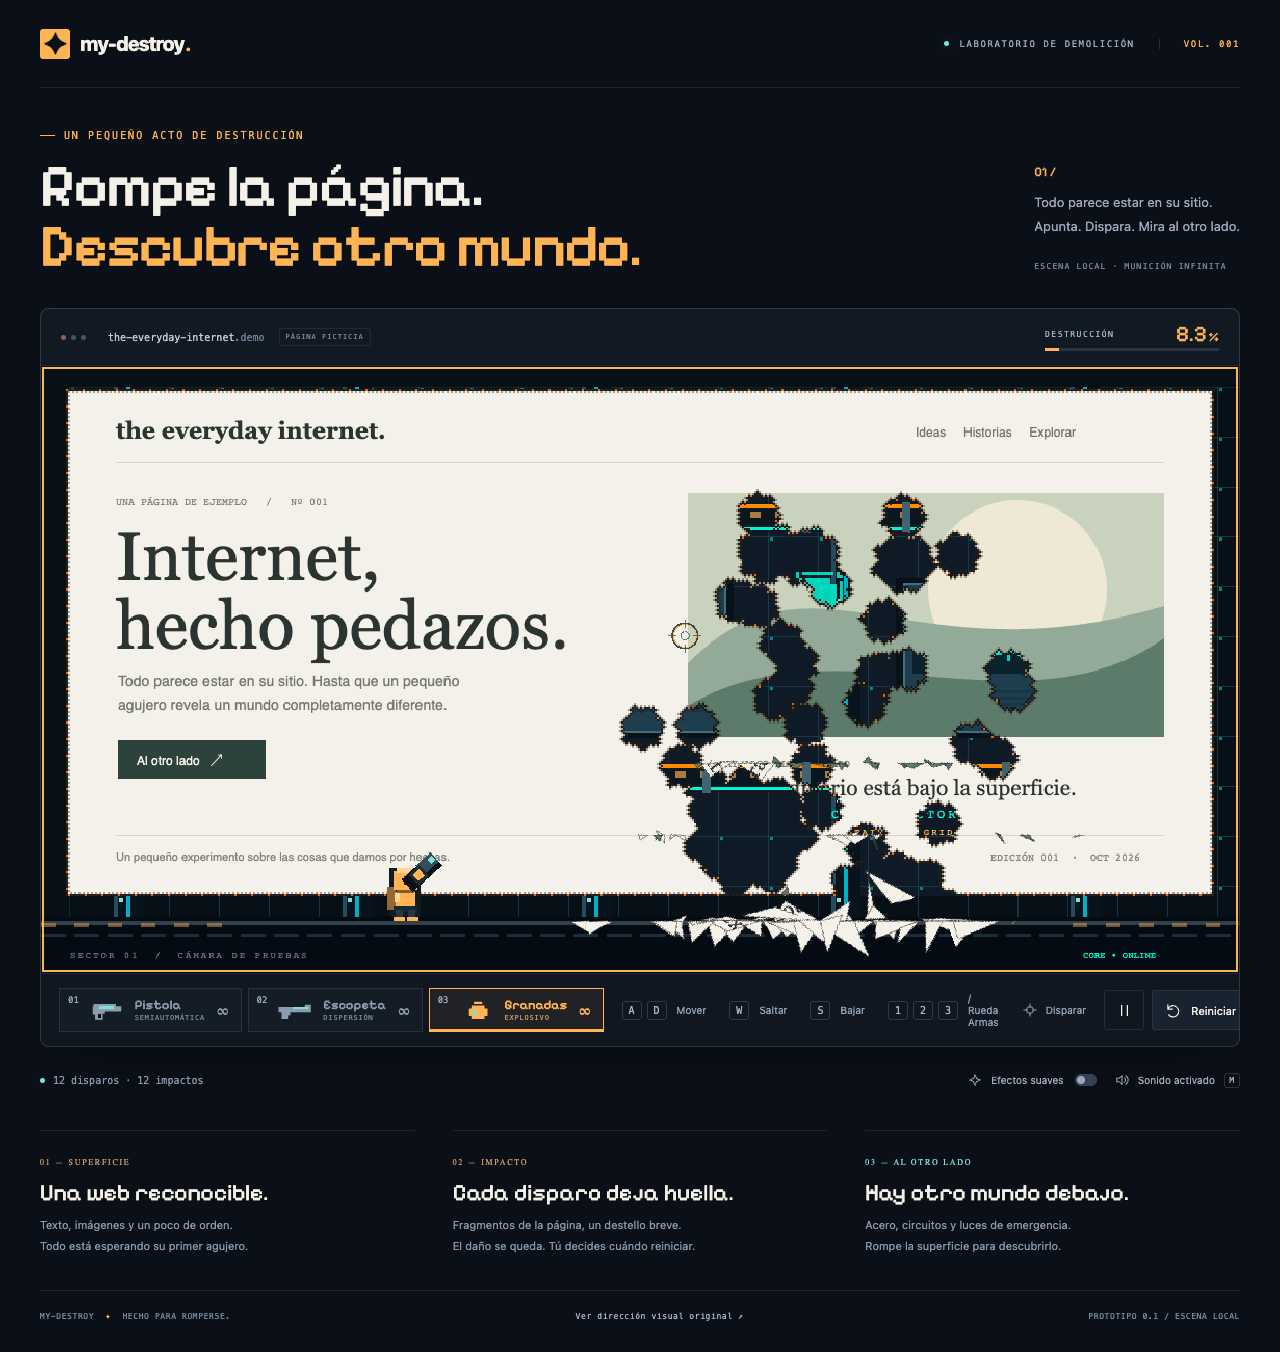
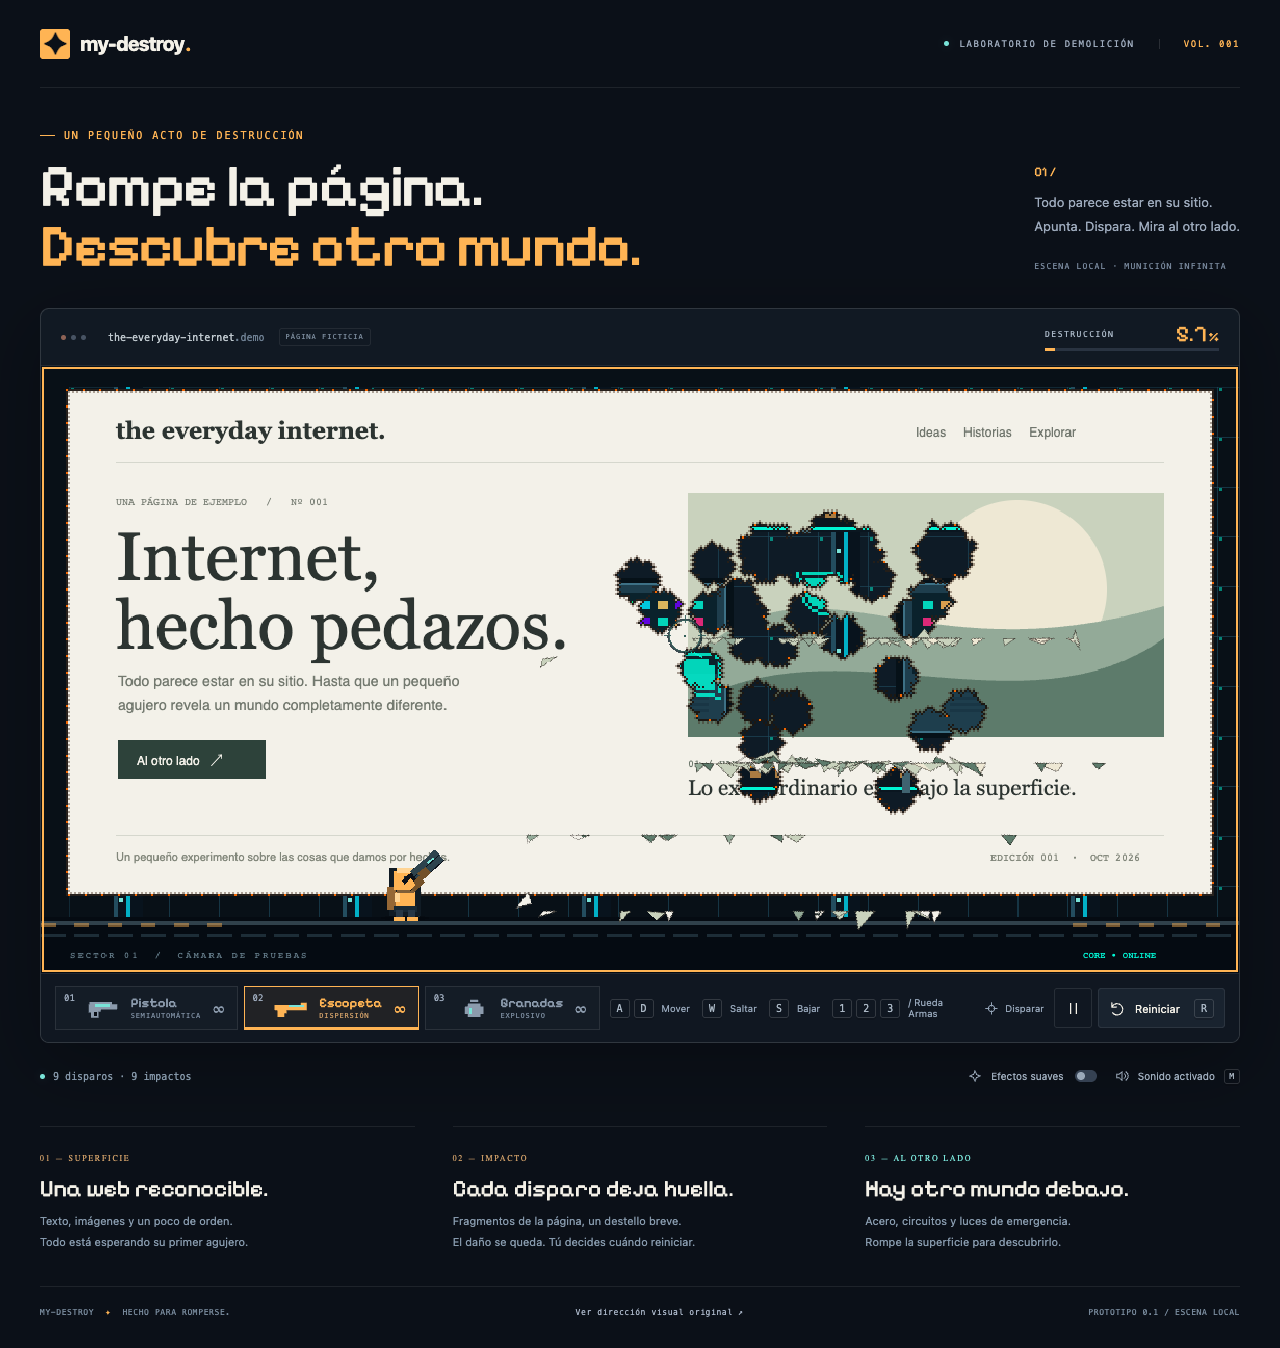
fix(debris): aplicar mascara de recorte en pasarela, filtrar micro-fragmentos y corregir overflow de barra

diff --git a/src/app/styles.css b/src/app/styles.css
@@ -1,6 +1,6 @@
 @font-face{font-family:Pixelify;src:url('/assets/PixelifySans.ttf') format('truetype');font-weight:400 700;font-display:swap}
 :root{font-family:Inter,ui-sans-serif,system-ui,-apple-system,sans-serif;color:#f4f1e8;background:#0b1018;color-scheme:dark;font-synthesis:none;--amber:#ffb454;--muted:#9daabc;--cyan:#79e3d8;--border:#ffffff14}
-*{box-sizing:border-box}body{margin:0}button,a{-webkit-tap-highlight-color:transparent}button{font:inherit}button{cursor:pointer}button:disabled{cursor:wait;opacity:.4}button:focus-visible,a:focus-visible,canvas:focus-visible{outline:2px solid var(--amber);outline-offset:5px}a{color:inherit;text-decoration:none}button svg{width:17px;height:17px;flex-shrink:0}main{max-width:1280px;padding:0 40px;margin:auto}button{display:inline-flex;align-items:center;justify-content:center;gap:9px;color:inherit;border:1px solid var(--border);background:#19232f;min-height:40px;transition:background .15s,border-color .15s}button:hover{background:#23303f;border-color:#ffffff35}kbd{font:10px ui-monospace,monospace;border:1px solid #ffffff25;color:#abb8c5;border-radius:3px;padding:3px 5px;min-width:20px;text-align:center;box-shadow:0 2px #0002}.topbar{height:88px;border-bottom:1px solid var(--border);display:flex;justify-content:space-between;align-items:center}.brand{font-size:20px;font-weight:750;letter-spacing:-.7px;display:flex;align-items:center;gap:10px}.brand-mark{width:30px;height:30px;display:grid;place-items:center;background:var(--amber);color:#0b1018;font:700 30px/1 Pixelify;border-radius:3px}.brand-dot{margin-left:-9px;color:var(--amber)}.edition{display:flex;align-items:center;gap:10px;font:9px ui-monospace,monospace;letter-spacing:1.6px;color:var(--muted)}.edition-number{border-left:1px solid #ffffff20;margin-left:14px;padding-left:24px;color:var(--amber)}.status-dot{display:inline-block;width:5px;height:5px;background:var(--cyan);box-shadow:0 0 8px #79e3d822;border-radius:50%;flex-shrink:0}.intro{display:flex;align-items:flex-end;justify-content:space-between;gap:24px;padding:42px 0 32px}.eyebrow{font:10px ui-monospace,monospace;letter-spacing:2px;color:var(--amber);margin:0 0 15px;display:flex;align-items:center;gap:9px}.eyebrow>span{display:inline-block;width:15px;height:1px;background:var(--amber)}h1{font:500 clamp(40px,4.6vw,62px)/1.02 Pixelify,monospace;letter-spacing:-1.7px;margin:0}h1>span{color:var(--amber)}.intro-aside{padding-bottom:4px;max-width:290px}.aside-number{color:var(--amber);font:13px Pixelify,monospace}.intro-aside p{font-size:13px;line-height:1.8;color:var(--muted);margin:11px 0 16px}.local-note{font:8px ui-monospace,monospace;letter-spacing:1.2px;color:#76869a}.game-shell{border:1px solid #ffffff21;border-radius:9px;overflow:hidden;box-shadow:0 20px 70px #0004;background:#111923}.browser-bar{min-height:57px;padding:10px 20px;display:flex;justify-content:space-between;align-items:center;border-bottom:1px solid #ffffff13;gap:20px}.page-address{display:flex;align-items:center;gap:14px;font:10px ui-monospace,monospace;color:#c0c9cf}.address-suffix{color:#6f8194}.window-dots{display:flex;gap:5px;padding-right:8px}.window-dots i{width:5px;height:5px;background:#475363;border-radius:50%}.window-dots i:first-child{background:#8d6255}.fixture-tag{color:#79899a;border:1px solid #ffffff13;border-radius:3px;font-size:7px;letter-spacing:1px;padding:4px 6px}.damage-readout{display:grid;grid-template-columns:auto 58px;gap:3px 10px;min-width:174px;align-items:center}.damage-readout>span{font:8px ui-monospace,monospace;color:#a8b6c5;letter-spacing:1.5px}.damage-readout strong{font:22px/1 Pixelify,monospace;color:var(--amber);text-align:right;font-variant-numeric:tabular-nums}.damage-readout small{font-size:12px;margin-left:2px}.meter{height:3px;background:#293341;grid-column:1/-1}.meter>span{display:block;height:100%;background:var(--amber);transition:width .12s}.stage{position:relative;aspect-ratio:1152/584;background:#0b1520;isolation:isolate}.game-host{position:absolute;inset:0;overflow:hidden}.game-host canvas{display:block;cursor:none}.game-host canvas:focus-visible{outline-offset:-3px}.first-shot-hint{position:absolute;bottom:14%;right:6%;display:flex;align-items:center;gap:8px;padding:10px 13px;border:1px solid #2e49463b;background:#f3f1e9e8;color:#315149;font:11px ui-monospace,monospace;pointer-events:none}.first-shot-hint svg{width:15px;height:15px}.stage-overlay{position:absolute;inset:0;z-index:2;background:#0b1520f5;display:flex;align-items:center;justify-content:center;flex-direction:column;text-align:center;padding:20px}.paused-overlay{background:#0b1520df;backdrop-filter:blur(3px)}.overlay-symbol{color:var(--amber);font:50px Pixelify;margin-bottom:20px}.stage-overlay h2{font:32px Pixelify;margin:0 0 22px}.stage-overlay p{font-size:12px;color:var(--muted);line-height:1.7}.stage-overlay .eyebrow{font:9px ui-monospace;color:var(--amber);margin:0 0 12px}.primary-button{background:var(--amber);color:#111923;padding:0 25px;font-weight:650;border-color:var(--amber)}.primary-button:hover{background:#ffd194;border-color:#ffd194}.pause-note{margin-top:18px}.restore-toast{position:absolute;bottom:12%;left:50%;transform:translateX(-50%);padding:10px 15px;background:#14292b;color:var(--cyan);border:1px solid #79e3d840;font-size:12px;pointer-events:none;opacity:0;transition:opacity .15s;white-space:nowrap}.restore-toast.visible{opacity:1}.control-deck{display:flex;align-items:center;justify-content:space-between;padding:14px 18px;gap:18px;border-top:1px solid #ffffff12;background:#101721}.arsenal-slots{display:flex;align-items:center;gap:6px}.weapon-slot{display:flex;align-items:center;gap:10px;border:1px solid #ffffff18;background:#141c26;padding:6px 12px 6px 8px;cursor:pointer;transition:border-color .15s,background .15s;color:#8c9bad;min-height:44px}.weapon-slot:hover{border-color:#ffffff35;background:#1a2533;color:#c0cddc}.weapon-slot.is-active{border-color:var(--amber);background:#ffb45412;color:var(--amber);box-shadow:inset 0 -2px var(--amber)}.weapon-slot-key{font:9px ui-monospace,monospace;color:#9daabc;align-self:flex-start}.weapon-slot svg{width:36px;height:24px;shape-rendering:crispEdges;color:currentColor;flex-shrink:0}.weapon-slot>div{display:flex;flex-direction:column;gap:2px;text-align:left}.weapon-slot strong{font:13px/1 Pixelify;font-weight:500;color:currentColor}.weapon-slot small{font:7px ui-monospace,monospace;letter-spacing:.8px;color:#78889b}.weapon-slot.is-active small{color:#c99a65}.weapon-slot .infinite{font:16px Georgia;color:inherit;margin-left:2px}.shortcuts{display:flex;align-items:center;gap:23px;font-size:10px;color:#94a4b7}.shortcuts>span{display:flex;align-items:center;gap:5px}.shortcuts kbd:last-of-type{margin-right:5px}.shortcuts svg{width:16px;height:16px;margin-right:3px}.game-actions{display:flex;gap:8px}.icon-button{width:40px;background:transparent;border-color:#ffffff19;border-radius:3px}.reset-button{padding:0 12px;border-radius:3px;font-size:11px}.reset-button kbd{margin-left:5px}.below-scene{display:flex;align-items:center;justify-content:space-between;gap:20px;padding:14px 0 0}.session-status{font:10px ui-monospace,monospace;color:#8597a9;display:flex;align-items:center;gap:8px}.preferences{display:flex;gap:18px}.preferences button{background:none;border:0;color:#9eacbc;padding:0;min-height:38px;font-size:10px}.preferences button:hover{color:#f4f1e8}.preferences svg{width:14px;height:14px}.preferences kbd{font-size:8px;padding:2px 4px;min-width:16px}.toggle{display:inline-flex;align-items:center;width:22px;height:12px;padding:2px;background:#354152;border-radius:8px;margin-left:2px}.toggle:after{content:'';width:8px;height:8px;background:#9ba9b9;border-radius:50%}.toggle.on{background:#79e3d844}.toggle.on:after{background:var(--cyan);margin-left:auto}.field-notes{display:grid;grid-template-columns:1fr 1fr 1fr;gap:38px;padding:31px 0 34px}.field-notes article{border-top:1px solid var(--border);padding-top:19px}.note-index{font:8px ui-monospace;letter-spacing:1.7px;color:#c99a65}.note-index.cyan{color:#79e3d8}.field-notes h2{font:23px Pixelify;margin:11px 0 9px;font-weight:400}.field-notes p{font-size:11px;color:#8699ac;line-height:1.85;margin:0}footer{display:flex;align-items:center;justify-content:space-between;gap:20px;border-top:1px solid var(--border);padding:21px 0 30px;font:8px ui-monospace,monospace;letter-spacing:.6px;color:#77899b}footer a{color:#aab6c8;text-underline-offset:4px}footer a:hover{text-decoration:underline}.footer-cross{color:var(--amber);margin:0 6px}.mobile-note{display:none}
+*{box-sizing:border-box}body{margin:0}button,a{-webkit-tap-highlight-color:transparent}button{font:inherit}button{cursor:pointer}button:disabled{cursor:wait;opacity:.4}button:focus-visible,a:focus-visible,canvas:focus-visible{outline:2px solid var(--amber);outline-offset:5px}a{color:inherit;text-decoration:none}button svg{width:17px;height:17px;flex-shrink:0}main{max-width:1280px;padding:0 40px;margin:auto}button{display:inline-flex;align-items:center;justify-content:center;gap:9px;color:inherit;border:1px solid var(--border);background:#19232f;min-height:40px;transition:background .15s,border-color .15s}button:hover{background:#23303f;border-color:#ffffff35}kbd{font:10px ui-monospace,monospace;border:1px solid #ffffff25;color:#abb8c5;border-radius:3px;padding:3px 5px;min-width:20px;text-align:center;box-shadow:0 2px #0002}.topbar{height:88px;border-bottom:1px solid var(--border);display:flex;justify-content:space-between;align-items:center}.brand{font-size:20px;font-weight:750;letter-spacing:-.7px;display:flex;align-items:center;gap:10px}.brand-mark{width:30px;height:30px;display:grid;place-items:center;background:var(--amber);color:#0b1018;font:700 30px/1 Pixelify;border-radius:3px}.brand-dot{margin-left:-9px;color:var(--amber)}.edition{display:flex;align-items:center;gap:10px;font:9px ui-monospace,monospace;letter-spacing:1.6px;color:var(--muted)}.edition-number{border-left:1px solid #ffffff20;margin-left:14px;padding-left:24px;color:var(--amber)}.status-dot{display:inline-block;width:5px;height:5px;background:var(--cyan);box-shadow:0 0 8px #79e3d822;border-radius:50%;flex-shrink:0}.intro{display:flex;align-items:flex-end;justify-content:space-between;gap:24px;padding:42px 0 32px}.eyebrow{font:10px ui-monospace,monospace;letter-spacing:2px;color:var(--amber);margin:0 0 15px;display:flex;align-items:center;gap:9px}.eyebrow>span{display:inline-block;width:15px;height:1px;background:var(--amber)}h1{font:500 clamp(40px,4.6vw,62px)/1.02 Pixelify,monospace;letter-spacing:-1.7px;margin:0}h1>span{color:var(--amber)}.intro-aside{padding-bottom:4px;max-width:290px}.aside-number{color:var(--amber);font:13px Pixelify,monospace}.intro-aside p{font-size:13px;line-height:1.8;color:var(--muted);margin:11px 0 16px}.local-note{font:8px ui-monospace,monospace;letter-spacing:1.2px;color:#76869a}.game-shell{border:1px solid #ffffff21;border-radius:9px;overflow:hidden;box-shadow:0 20px 70px #0004;background:#111923}.browser-bar{min-height:57px;padding:10px 20px;display:flex;justify-content:space-between;align-items:center;border-bottom:1px solid #ffffff13;gap:20px}.page-address{display:flex;align-items:center;gap:14px;font:10px ui-monospace,monospace;color:#c0c9cf}.address-suffix{color:#6f8194}.window-dots{display:flex;gap:5px;padding-right:8px}.window-dots i{width:5px;height:5px;background:#475363;border-radius:50%}.window-dots i:first-child{background:#8d6255}.fixture-tag{color:#79899a;border:1px solid #ffffff13;border-radius:3px;font-size:7px;letter-spacing:1px;padding:4px 6px}.damage-readout{display:grid;grid-template-columns:auto 58px;gap:3px 10px;min-width:174px;align-items:center}.damage-readout>span{font:8px ui-monospace,monospace;color:#a8b6c5;letter-spacing:1.5px}.damage-readout strong{font:22px/1 Pixelify,monospace;color:var(--amber);text-align:right;font-variant-numeric:tabular-nums}.damage-readout small{font-size:12px;margin-left:2px}.meter{height:3px;background:#293341;grid-column:1/-1}.meter>span{display:block;height:100%;background:var(--amber);transition:width .12s}.stage{position:relative;aspect-ratio:1152/584;background:#0b1520;isolation:isolate}.game-host{position:absolute;inset:0;overflow:hidden}.game-host canvas{display:block;cursor:none}.game-host canvas:focus-visible{outline-offset:-3px}.first-shot-hint{position:absolute;bottom:14%;right:6%;display:flex;align-items:center;gap:8px;padding:10px 13px;border:1px solid #2e49463b;background:#f3f1e9e8;color:#315149;font:11px ui-monospace,monospace;pointer-events:none}.first-shot-hint svg{width:15px;height:15px}.stage-overlay{position:absolute;inset:0;z-index:2;background:#0b1520f5;display:flex;align-items:center;justify-content:center;flex-direction:column;text-align:center;padding:20px}.paused-overlay{background:#0b1520df;backdrop-filter:blur(3px)}.overlay-symbol{color:var(--amber);font:50px Pixelify;margin-bottom:20px}.stage-overlay h2{font:32px Pixelify;margin:0 0 22px}.stage-overlay p{font-size:12px;color:var(--muted);line-height:1.7}.stage-overlay .eyebrow{font:9px ui-monospace;color:var(--amber);margin:0 0 12px}.primary-button{background:var(--amber);color:#111923;padding:0 25px;font-weight:650;border-color:var(--amber)}.primary-button:hover{background:#ffd194;border-color:#ffd194}.pause-note{margin-top:18px}.restore-toast{position:absolute;bottom:12%;left:50%;transform:translateX(-50%);padding:10px 15px;background:#14292b;color:var(--cyan);border:1px solid #79e3d840;font-size:12px;pointer-events:none;opacity:0;transition:opacity .15s;white-space:nowrap}.restore-toast.visible{opacity:1}.control-deck{display:flex;align-items:center;justify-content:space-between;padding:12px 14px;gap:10px;border-top:1px solid #ffffff12;background:#101721}.arsenal-slots{display:flex;align-items:center;gap:6px;flex-shrink:0}.weapon-slot{display:flex;align-items:center;gap:10px;border:1px solid #ffffff18;background:#141c26;padding:6px 12px 6px 8px;cursor:pointer;transition:border-color .15s,background .15s;color:#8c9bad;min-height:44px}.weapon-slot:hover{border-color:#ffffff35;background:#1a2533;color:#c0cddc}.weapon-slot.is-active{border-color:var(--amber);background:#ffb45412;color:var(--amber);box-shadow:inset 0 -2px var(--amber)}.weapon-slot-key{font:9px ui-monospace,monospace;color:#9daabc;align-self:flex-start}.weapon-slot svg{width:36px;height:24px;shape-rendering:crispEdges;color:currentColor;flex-shrink:0}.weapon-slot>div{display:flex;flex-direction:column;gap:2px;text-align:left}.weapon-slot strong{font:13px/1 Pixelify;font-weight:500;color:currentColor}.weapon-slot small{font:7px ui-monospace,monospace;letter-spacing:.8px;color:#78889b}.weapon-slot.is-active small{color:#c99a65}.weapon-slot .infinite{font:16px Georgia;color:inherit;margin-left:2px}.shortcuts{display:flex;align-items:center;gap:12px;font-size:9.5px;color:#94a4b7}.shortcuts>span{display:flex;align-items:center;gap:4px}.shortcuts kbd:last-of-type{margin-right:4px}.shortcuts svg{width:15px;height:15px;margin-right:2px}.game-actions{display:flex;gap:6px;flex-shrink:0}.icon-button{width:38px;background:transparent;border-color:#ffffff19;border-radius:3px}.reset-button{padding:0 10px;border-radius:3px;font-size:11px;white-space:nowrap;flex-shrink:0}.reset-button kbd{margin-left:5px}.below-scene{display:flex;align-items:center;justify-content:space-between;gap:20px;padding:14px 0 0}.session-status{font:10px ui-monospace,monospace;color:#8597a9;display:flex;align-items:center;gap:8px}.preferences{display:flex;gap:18px}.preferences button{background:none;border:0;color:#9eacbc;padding:0;min-height:38px;font-size:10px}.preferences button:hover{color:#f4f1e8}.preferences svg{width:14px;height:14px}.preferences kbd{font-size:8px;padding:2px 4px;min-width:16px}.toggle{display:inline-flex;align-items:center;width:22px;height:12px;padding:2px;background:#354152;border-radius:8px;margin-left:2px}.toggle:after{content:'';width:8px;height:8px;background:#9ba9b9;border-radius:50%}.toggle.on{background:#79e3d844}.toggle.on:after{background:var(--cyan);margin-left:auto}.field-notes{display:grid;grid-template-columns:1fr 1fr 1fr;gap:38px;padding:31px 0 34px}.field-notes article{border-top:1px solid var(--border);padding-top:19px}.note-index{font:8px ui-monospace;letter-spacing:1.7px;color:#c99a65}.note-index.cyan{color:#79e3d8}.field-notes h2{font:23px Pixelify;margin:11px 0 9px;font-weight:400}.field-notes p{font-size:11px;color:#8699ac;line-height:1.85;margin:0}footer{display:flex;align-items:center;justify-content:space-between;gap:20px;border-top:1px solid var(--border);padding:21px 0 30px;font:8px ui-monospace,monospace;letter-spacing:.6px;color:#77899b}footer a{color:#aab6c8;text-underline-offset:4px}footer a:hover{text-decoration:underline}.footer-cross{color:var(--amber);margin:0 6px}.mobile-note{display:none}
 @media(min-width:1600px){main{max-width:1400px}.intro{padding:50px 0 36px}h1{font-size:68px}}
 @media(max-width:1000px){main{padding:0 24px}.intro-aside{max-width:220px}.edition-number{display:none}.shortcuts{gap:12px}.shortcuts>span:first-child{display:none}.weapon{min-width:190px}.fixture-tag{display:none}.field-notes{gap:24px}.field-notes h2{font-size:20px}footer>span:last-child{display:none}}
 @media(max-width:700px){main{padding:0 16px}.topbar{height:70px}.brand{font-size:18px}.edition{font-size:7px;letter-spacing:1px}.edition .status-dot{display:none}.intro{padding:30px 0 24px}.intro-aside{display:none}h1{font-size:43px;letter-spacing:-1px}.eyebrow{font-size:8px;letter-spacing:1.4px}.browser-bar{padding:10px;gap:10px;min-height:50px}.window-dots{display:none}.page-address{font-size:8px}.damage-readout{min-width:120px;grid-template-columns:auto 45px}.damage-readout>span{font-size:6px}.damage-readout strong{font-size:18px}.stage{min-height:240px;aspect-ratio:auto}.first-shot-hint{font-size:8px;padding:7px;bottom:17%}.first-shot-hint svg{width:12px}.control-deck{padding:10px;gap:8px}.weapon{min-width:0;gap:8px;padding:8px}.weapon-key,.infinite,.weapon>div>span{display:none}.pistol-icon{width:28px}.weapon strong{font-size:15px}.shortcuts{display:none}.reset-button{font-size:10px;padding:0 9px}.reset-button kbd{display:none}.below-scene{display:block;padding-top:10px}.session-status{font-size:9px}.preferences{justify-content:space-between}.preferences button{font-size:10px}.mobile-note{display:block;color:#8192a5;font-size:10px;line-height:1.7;border-left:2px solid #304354;padding-left:10px;margin:12px 0 0}.field-notes{grid-template-columns:1fr;padding:25px 0;gap:20px}.field-notes p br{display:none}.field-notes h2{font-size:23px}.field-notes article{padding-top:15px}footer{flex-direction:column;align-items:flex-start;gap:14px;font-size:8px}.stage-overlay .overlay-symbol{display:none}.stage-overlay h2{font-size:25px;margin-bottom:12px}.stage-overlay p{font-size:10px}.restore-toast{font-size:9px;padding:7px}.pause-note{margin:8px 0 0}}

diff --git a/src/game/physics/DebrisManager.ts b/src/game/physics/DebrisManager.ts
@@ -65,11 +65,10 @@ export class DebrisManager {
     // Gravity pointing downwards towards catwalk
     this.world = new RAPIER.World({ x: 0.0, y: 880.0 });
 
-    // 1. Catwalk floor collider at y = 530
-    // Thick 100px block positioned under y = 530 to guarantee zero tunneling into HUD
-    const floorY = WORLD.floor; // 530
+    // 1. Catwalk floor collider at y = 524 (6px margin above catwalk line y=530 to guarantee zero protrusion)
+    const floorTop = 524;
     const floorHalfHeight = 50.0;
-    const floorDesc = RAPIER.RigidBodyDesc.fixed().setTranslation(WORLD.width / 2, floorY + floorHalfHeight);
+    const floorDesc = RAPIER.RigidBodyDesc.fixed().setTranslation(WORLD.width / 2, floorTop + floorHalfHeight);
     const floorBody = this.world.createRigidBody(floorDesc);
     const floorCollider = RAPIER.ColliderDesc.cuboid(WORLD.width / 2 + 100, floorHalfHeight);
     floorCollider.setFriction(0.85);
@@ -224,6 +223,17 @@ export class DebrisManager {
       const sy = gy - PAPER.y;
       if (sx < 0 || sx >= PAPER.width || sy < 0 || sy >= PAPER.height) continue;
 
+      // Triangle area via cross product
+      const area2 = Math.abs(
+        p0[0] * (p1[1] - p2[1]) +
+        p1[0] * (p2[1] - p0[1]) +
+        p2[0] * (p0[1] - p1[1])
+      );
+      const area = 0.5 * area2;
+
+      // Discard micro-crumbs (< 45 px^2) to prevent small crumbs lining up on text platforms
+      if (area < 45.0) continue;
+
       const minX = Math.min(p0[0], p1[0], p2[0]);
       const maxX = Math.max(p0[0], p1[0], p2[0]);
       const minY = Math.min(p0[1], p1[1], p2[1]);
@@ -281,8 +291,6 @@ export class DebrisManager {
       const lb = [p1[0] - gx, p1[1] - gy];
       const lc = [p2[0] - gx, p2[1] - gy];
 
-      // Area of triangle (twice the signed area)
-      const area2 = Math.abs(la[0] * (lb[1] - lc[1]) + lb[0] * (lc[1] - la[1]) + lc[0] * (la[1] - lb[1]));
       let colliderDesc: RAPIER.ColliderDesc;
 
       if (area2 > 8.0) {

diff --git a/src/game/scenes/FirstScene.ts b/src/game/scenes/FirstScene.ts
@@ -27,6 +27,7 @@ export class FirstScene extends Phaser.Scene {
   private shadow!: Phaser.GameObjects.Ellipse;
   private audio = new ShotAudio();
   private fragments: Fragment[] = [];
+  private debrisLayer!: Phaser.GameObjects.Container;
   private dust: Dust[] = [];
   private grenades: Grenade[] = [];
   private keys = new Set<string>();
@@ -64,9 +65,16 @@ export class FirstScene extends Phaser.Scene {
     this.reticle = this.add.graphics().setDepth(60);
     this.audio.setMuted(this.prefs.muted);
 
+    this.debrisLayer = this.add.container(0, 0).setDepth(26);
+    const debrisMaskGraphics = this.make.graphics();
+    debrisMaskGraphics.fillStyle(0xffffff).fillRect(0, 0, WORLD.width, 530);
+    this.debrisLayer.setMask(debrisMaskGraphics.createGeometryMask());
+
     this.debrisManager = new DebrisManager({
       createDebrisImage: (x, y, frameKey, originX = 0.5, originY = 0.5) => {
-        return this.add.image(x, y, frameKey).setDepth(26).setOrigin(originX, originY);
+        const img = this.add.image(x, y, frameKey).setOrigin(originX, originY);
+        this.debrisLayer.add(img);
+        return img;
       },
       addDebrisPolygon: (data) => {
         const tex = this.textures.createCanvas(data.frameKey, data.width, data.height);
